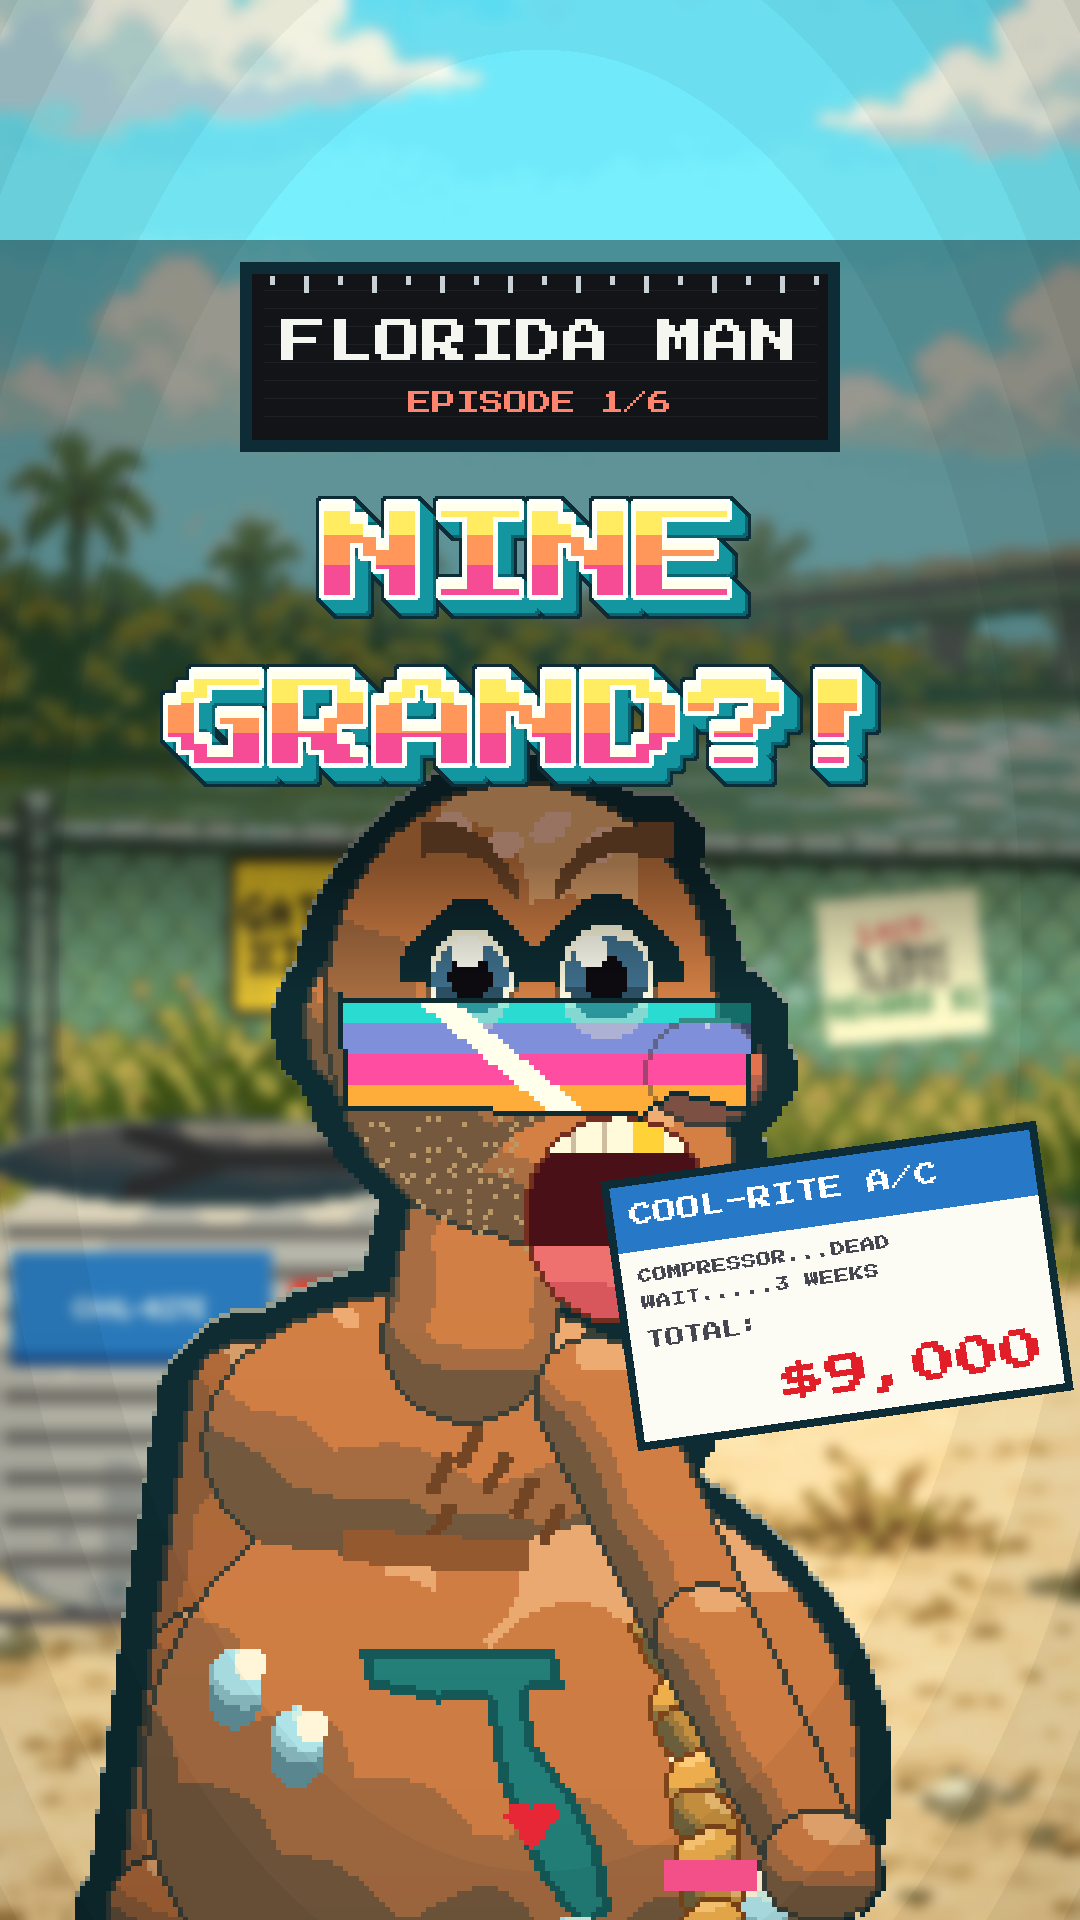
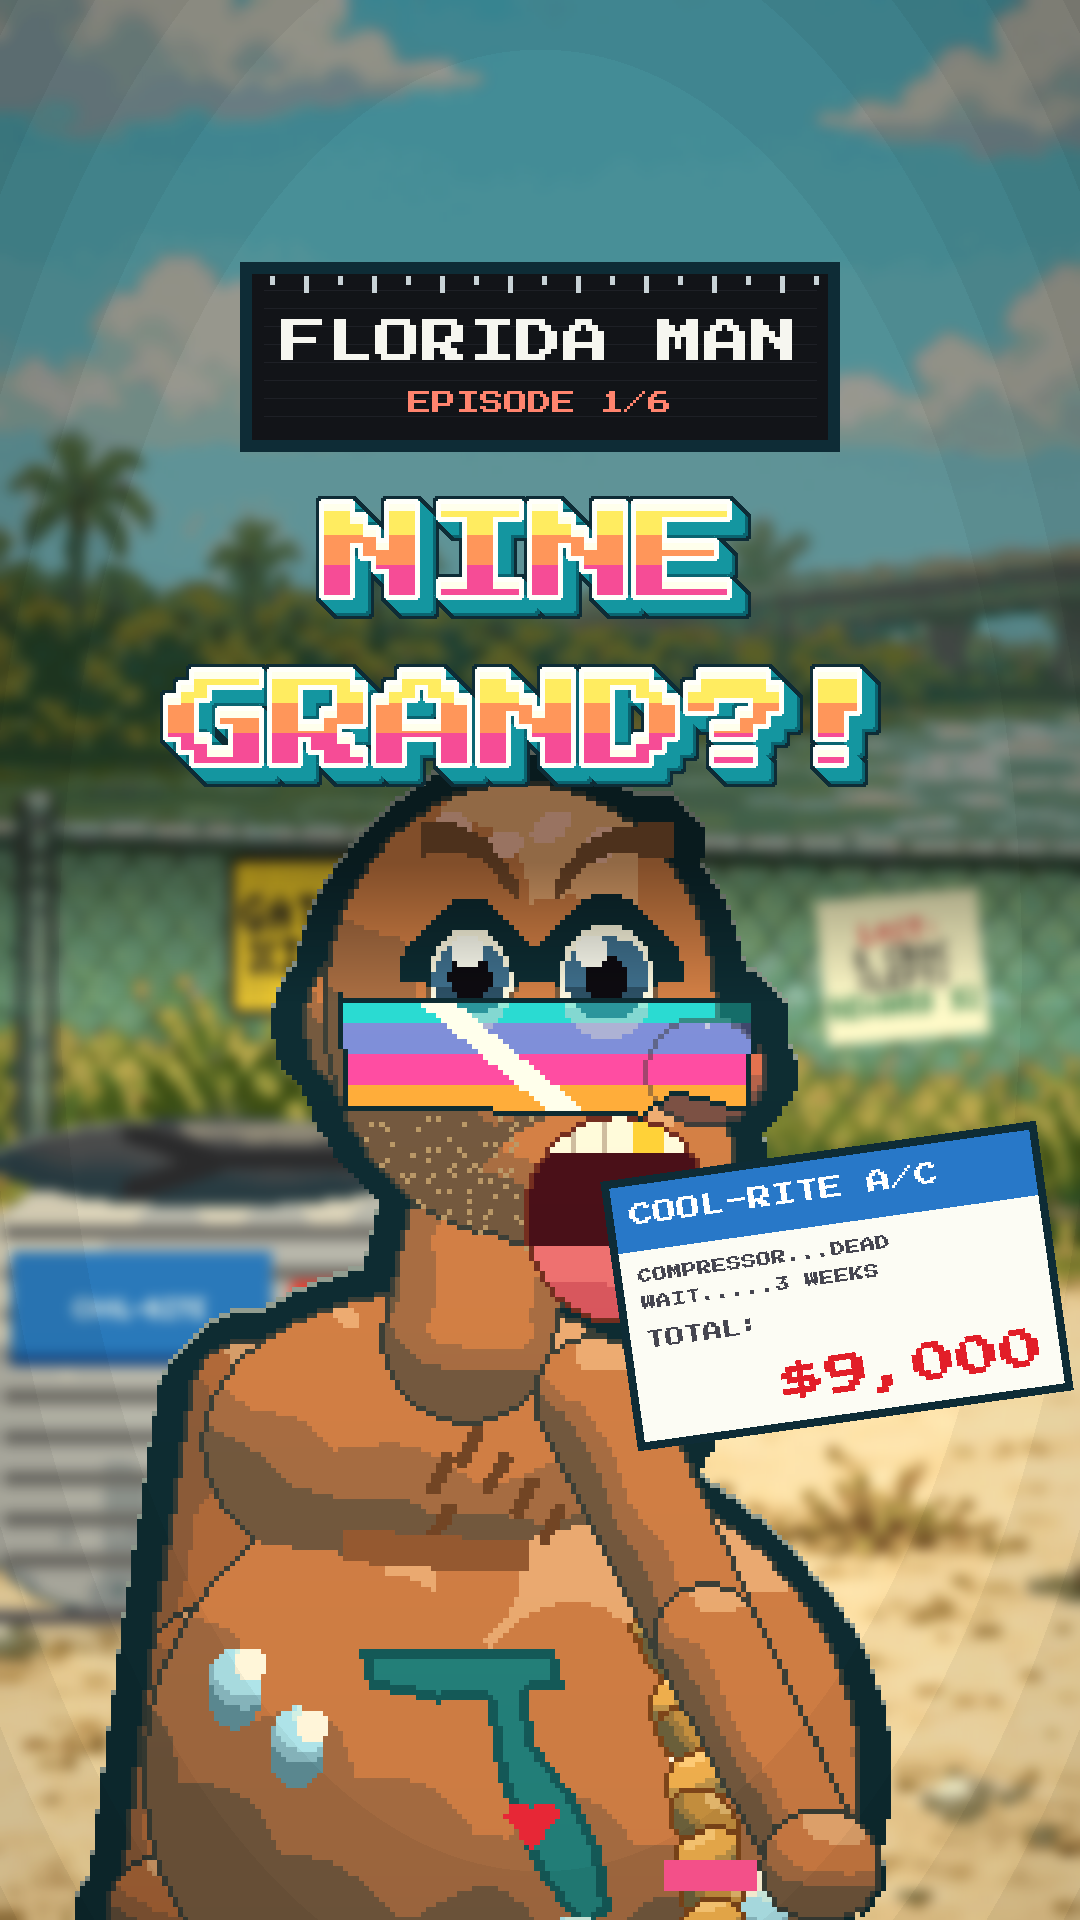
E01: правки по критику (билборд целиком, дверь морозилки, Таннер в морозилке, кресло на крупном плане, ростомер), отчёт critic.md
Claude-Session: https://claude.ai/code/session_01FGEzZ1Ap6hv5akAT8HD42w

Changed region(s): [[0.0, 0.0, 1.0, 0.125]]

diff --git a/series/florida-man/episodes/ep01/ep01.py b/series/florida-man/episodes/ep01/ep01.py
@@ -84,14 +84,14 @@ def r_hook(t, u):
 def r_tanner_ac(t, u):
     """MS: Tanner (job #1, Cool-Rite) beside the smoking condenser, tablet up, beaming — and sweating himself (clue)"""
     Z = 1.45
-    v = view_at(YARD, 560.0, 470.0, Z, 180, 320)
+    v = view_at(YARD, 578.0, 470.0, Z, 180, 320)               # the trailer's corner stays out of the left edge
     acts = [ac_actor(v, t),
             A(C.tanner, 618.0, SAND, S_YARD * Z, t=t, expr='chipper', mouth_=mouth('tanner', t, 2.0), look=(0.0, 0.0), jobs=1, sweat=1.0,
               prop_n=lambda sp, h: C.tablet(sp, (h[0] + 0.5, h[1] - 0.5)), hand_n=(10.0, 40.0), shadow=0.35)]
     def f(big, v_):
         ac_smoke(big, v_, t)
         K.heat_haze(big, t, 1150, OUT_H, 3)
-    return K.shot(YARD, K.light_sun, 560.0, 470.0, Z, acts=acts, fx_=f, sx=180, sy=320)
+    return K.shot(YARD, K.light_sun, 578.0, 470.0, Z, acts=acts, fx_=f, sx=180, sy=320)
 
 
 def r_melt(t, u):
@@ -109,15 +109,14 @@ def r_tanner_cu(t, u):
     def pre(big, v):
         ac_actor(v, t)(big, v, K.light_sun(v)); ac_smoke(big, v, t, 0.8)
     big, a = cu(YARD, K.light_sun, C.tanner, t, 560.0, 460.0, 23.0, (540, 700), Z=1.35, blur=6, pre_=pre, expr='chipper',
-                mouth_=mouth('tanner', t, 2.0), look=(0.0, 0.0), jobs=1, sweat=1.0, thumbs=u > 0.35, hand_n=(11.0, 50.0) if u > 0.35 else None,
-                prop_f=lambda sp, h: C.tablet(sp, (h[0] - 4.0, h[1])))
+                mouth_=mouth('tanner', t, 2.0), look=(0.0, 0.0), jobs=1, sweat=1.0, thumbs=u > 0.35, hand_n=(11.0, 50.0) if u > 0.35 else None)
     return big
 
 
 def r_porch(t, u):
     """MS: zen again — Florida Man holds the sub up to Mort perched on the lawn-chair back; the billboard behind; GULP at 12.95"""
-    Z = 1.4
-    v = view_at(YARD, 770.0, 420.0, Z, 180, 320)
+    Z = 1.1                                                      # wide enough for Mort's whole billboard (802..1008) behind them
+    v = view_at(YARD, 852.0, 420.0, Z, 180, 320)
     gone = t >= 12.95
     gul = min(1.0, max(0.0, (t - 12.95) / 0.3))
     fm_ = A(C.fm, 742.0, SAND, S_YARD * Z, t=t, expr='zen', mouth_=mouth('fm', t), look=(0.8, 0.5),
@@ -126,7 +125,7 @@ def r_porch(t, u):
              look=(1.0, -0.4), lump='sub' if gone else None, gulp=gul if gone else 0.0, lift=0.5 * (1 - gul) if t > 12.5 else 0.0)
     def f(big, v_):
         K.heat_haze(big, t, 1300, OUT_H, 3)
-    return K.shot(YARD, K.light_sun, 770.0, 420.0, Z, acts=[mort, fm_], fx_=f, sx=180, sy=320)
+    return K.shot(YARD, K.light_sun, 852.0, 420.0, Z, acts=[mort, fm_], fx_=f, sx=180, sy=320)
 
 
 def r_mort_cu(t, u):
@@ -155,18 +154,33 @@ def r_doors(t, u):
 
 
 def freezer_door(big, v, x0, x1, y0, y1, ang, frost=0.6):
-    """an opened glass freezer door hinged at x1 (world), swung towards the viewer: a narrowing frosty glass panel + chrome frame"""
+    """an opened glass freezer door hinged at x1 (world), swung towards the viewer: chrome frame with hinge plates, frosted glass
+    (frost thicker at the bottom, a diagonal glare), a long vertical handle on the free edge; its bottom sits on the case's base"""
     ax0, ay0 = v.opt(x0, y0); ax1, ay1 = v.opt(x1, y1)
     w = (ax1 - ax0) * math.cos(ang)
     X0 = int(ax1 - w); X1 = int(ax1)
     Y0, Y1 = int(ay0), int(ay1)
-    if X1 - X0 < 4: return
-    reg = big[max(0, Y0 - 20):min(OUT_H, Y1 + 20), max(0, X0):min(OUT_W, X1)]
-    reg[:] = (reg * 0.45 + np.array((220, 240, 255)) * 0.55).astype(np.uint8)
-    big[max(0, Y0 - 20):min(OUT_H, Y1 + 20), max(0, X0):max(0, X0) + 14] = (200, 210, 220)
-    big[max(0, Y0 - 20):min(OUT_H, Y1 + 20), max(0, X1 - 14):X1] = (200, 210, 220)
-    big[max(0, Y0 - 20):max(0, Y0 - 6), max(0, X0):X1] = (200, 210, 220)
-    big[min(OUT_H - 1, Y1 + 6):min(OUT_H, Y1 + 20), max(0, X0):X1] = (200, 210, 220)
+    if X1 - X0 < 6: return
+    fr = max(6, int(v.Z * 3 * 3.5))                               # frame thickness
+    ya, yb = max(0, Y0 - fr), min(OUT_H, Y1 + fr)
+    xa, xb = max(0, X0), min(OUT_W, X1)
+    if xa >= xb or ya >= yb: return
+    reg = big[ya:yb, xa:xb].astype(np.float32)
+    g = np.linspace(0.45, 0.75, yb - ya)[:, None, None]             # frost builds up towards the bottom
+    reg = reg * (1 - g) + np.array((222, 240, 255), np.float32) * g
+    xx = np.arange(xa, xb)[None, :]; yy = np.arange(ya, yb)[:, None]
+    glare = (np.abs((xx - xa) - (yy - ya) * 0.35 - (xb - xa) * 0.3) < max(4, (xb - xa) * 0.08))
+    reg[glare] = reg[glare] * 0.5 + 255 * 0.5
+    big[ya:yb, xa:xb] = reg.astype(np.uint8)
+    CH, CD = (206, 214, 224), (120, 128, 140)
+    big[ya:yb, xa:min(xb, xa + fr)] = CH; big[ya:yb, max(xa, xb - fr):xb] = CH
+    big[ya:min(yb, ya + fr), xa:xb] = CH; big[max(ya, yb - fr):yb, xa:xb] = CH
+    big[ya:yb, max(xa, xb - 2):xb] = CD; big[max(ya, yb - 2):yb, xa:xb] = CD
+    for hy in (ya + (yb - ya) // 6, yb - (yb - ya) // 6):           # hinge plates on the hinge side
+        big[max(0, hy - fr):hy + fr, max(xa, xb - fr - 6):xb] = CD
+    hx = xa + fr + max(4, fr // 2)                                  # the handle on the free edge
+    big[ya + (yb - ya) // 4:yb - (yb - ya) // 4, hx:hx + max(6, fr // 2)] = (150, 158, 170)
+    big[ya + (yb - ya) // 4:yb - (yb - ya) // 4, hx:hx + 3] = (236, 240, 246)
 
 
 def cold_mist(big, v, x, y, t, n=6):
@@ -226,7 +240,9 @@ def freezer_insert(t, u, sc, head, expr, open_k=1.0, shiver=1.0, zoom=1.0):
     sp = FX.draw(C.tanner, sc, t=t, expr=expr, mouth_=mouth('tanner', t, 2.0), look=(0.0, 0.0), jobs=1, frost=1.0, shiver=shiver,
                  hand_n=(9.0, 46.0), hand_f=(-4.0, 46.0))
     px, py = sp.anchors['head']
-    blit(big, sp, head[0] - px * sc, head[1] + py * sc, sc, K.light_aisle(v2))
+    tmp = big.copy()
+    blit(tmp, sp, head[0] - px * sc, head[1] + py * sc, sc, K.light_aisle(v2))
+    big[y0:y1, x0:x1] = tmp[y0:y1, x0:x1]                      # he is INSIDE the freezer: clipped to its interior
     big[y1 - 40:y1 + 30, x0 - 30:x1 + 30] = (190, 200, 214)    # front lip hides his legs
     big[y1 + 30:] = (big[y1 + 30:] * 0.6).astype(np.uint8)
     if open_k < 1.0:                                           # the glass door still swinging open
@@ -273,9 +289,13 @@ def r_reveal(t, u):
     def pre(big, v_):
         freezer_door(big, v_, 502.0, 640.0, 230.0, 500.0, 1.15)
         freezer_door(big, v_, *DOOR_X, 230.0, 500.0, 1.25)
-        x, y = v_.opt(708.0, 470.0)                              # Tanner huddled in his freezer
-        sp = FX.draw(C.tanner, s_ * 0.9, t=t, expr='shiver', jobs=1, frost=1.0, shiver=1.0)
-        blit(big, sp, x, y, s_ * 0.9, K.light_aisle(v_))
+        x, y = v_.opt(712.0, 466.0)                              # Tanner huddled in his freezer, fits the case cell, behind its glass
+        sp = FX.draw(C.tanner, s_ * 0.7, t=t, expr='shiver', jobs=1, frost=1.0, shiver=1.0)
+        blit(big, sp, x, y, s_ * 0.7, K.light_aisle(v_))
+        gx0, gy0 = v_.opt(650.0, 226.0); gx1, gy1 = v_.opt(776.0, 470.0)
+        gx0, gy0, gx1, gy1 = max(0, int(gx0)), max(0, int(gy0)), min(OUT_W, int(gx1)), min(OUT_H, int(gy1))
+        if gx0 < gx1 and gy0 < gy1:
+            big[gy0:gy1, gx0:gx1] = (big[gy0:gy1, gx0:gx1] * 0.72 + np.array((214, 236, 255)) * 0.28).astype(np.uint8)
     def f(big, v_):
         cold_mist(big, v_, 560.0, 440.0, t)
     return K.shot(AISLE, K.light_aisle, CX, CY, Z, acts=acts, pre=pre, fx_=f, sx=180, sy=320)
@@ -305,12 +325,18 @@ def r_darlene_cu(t, u):
     return big
 
 
+def fm_recliner(sp, t=0.0, frost=0.0, **kw):
+    """Florida Man seated in his recliner, one sprite (close-ups: the chair stays under him)"""
+    C.recliner(sp, t=t, foot=1.0)
+    C.fm(sp, t=t, pose='sit', frost=frost, **kw)
+
+
 def r_browse(t, u):
     """CU: Florida Man frosted solid in the recliner, icicles on the braid, perfectly zen: «I'm BROWSING.»"""
     def pre(big, v):
         freezer_door(big, v, 502.0, 640.0, 230.0, 500.0, 1.15)
-    big, a = cu(AISLE, K.light_aisle, C.fm, t, 560.0, 420.0, 25.0, (520, 760), Z=1.4, blur=6, pre_=pre, expr='zen', mouth_=mouth('fm', t),
-                frost=1.0, look=(0.5, 0.0), pose='sit')
+    big, a = cu(AISLE, K.light_aisle, fm_recliner, t, 560.0, 420.0, 25.0, (520, 760), Z=1.4, blur=6, pre_=pre, expr='zen', mouth_=mouth('fm', t),
+                frost=1.0, look=(0.5, 0.0), hand_n=(14.0, 32.0), hand_f=(-8.0, 36.0))
     K.frost_edges(big, 0.7)
     return big
 

diff --git a/engine/props/fmkit.py b/engine/props/fmkit.py
@@ -289,12 +289,12 @@ def mug_wall():
     if _MUG is None:
         im = Image.new('RGB', (OUT_W, OUT_H), (176, 196, 204)); d = ImageDraw.Draw(im); d.fontmode = '1'
         for y in range(0, OUT_H, 8): d.line([(0, y), (OUT_W, y)], fill=(170, 190, 198))
-        labels = {0: "7'", 2: "6'6", 4: "6'", 6: "5'6", 8: "5'", 10: "4'6", 12: "4'"}
+        labels = {2: "6'6", 4: "6'", 6: "5'6", 8: "5'", 10: "4'6"}        # no 7' (under the episode plate), no 4' (under the stamp)
         for i in range(0, 14):
             y = 160 + i * 110
             d.rectangle([0, y, OUT_W, y + 8], fill=(40, 60, 70))
             if i in labels:
-                d.text((30, y - 46), labels[i], font=O.pfont(34), fill=(40, 60, 70)); d.text((OUT_W - 150, y - 46), labels[i], font=O.pfont(34), fill=(40, 60, 70))
+                d.text((30, y - 46), labels[i], font=O.pfont(34), fill=(40, 60, 70)); d.text((OUT_W - 128, y - 46), labels[i], font=O.pfont(34), fill=(40, 60, 70))
             else:
                 d.rectangle([0, y - 55, 60, y - 51], fill=(80, 100, 110)); d.rectangle([OUT_W - 60, y - 55, OUT_W, y - 51], fill=(80, 100, 110))
         _MUG = np.array(im)

diff --git a/series/florida-man/episodes/ep01/critic.md b/series/florida-man/episodes/ep01/critic.md
@@ -1,0 +1,29 @@
+# Visual critic: Florida Man: Allegedly, S01E01 (33 s, 1080x1920)
+
+Checked all 40 full-size frames f_00.25 … f_32.00, cover.png and cover_grid.png.
+
+1. cover.png: hard horizontal seam across the full width at y = 240. Above it the sky is RGB(120,239,252); below it a dimming layer drops it to RGB(72,143,151). It reads as a two-tone split on the 9:16 cover and in the 0.1 s cover flash. Location: (0–1080, 240). **FIX**
+2. cover.png: the tilted $9,000 card covers the right half of the screaming mouth, which hides part of the hook emotion. The grid thumbnail still reads well. Location: (600–700, 1150–1320). **NIT**
+3. 0.25–1.75 / f_00.25, f_01.32, f_01.75: inside the slid-down glasses band, faint lens rings repeat the eyes, and a third ring sits on the nose. This looks like a doubled or leftover overlay. Location: rings (430–520, 790–860) and (590–680, 790–860); nose ring (660–770, 830–910). **NIT**
+4. 0.25 / f_00.25: the caption "NINE GRAND?!" duplicates the hook title "NINE GRAND?!" on screen at the same moment. Location: (190–890, 1730–1800) vs (20–1030, 190–290). **NIT**
+5. 3.25–6.25 / f_03.25, f_03.82, f_04.75: the foreground pole at the left edge ends in a flat, hard cut in mid-air above the bushes. It doesn't reach the ground. Location: (0–25, 0–975), cut at y ≈ 975. **FIX**
+6. 3.25–4.75 / f_03.25, f_03.82, f_04.75: the "LOST 1 CROC / REWARD" poster is cut by the right frame edge and can't be read here (it reads fully at 10.75). Location: (1010–1080, 810–960). **NIT**
+7. 7.75–9.25 / f_07.75, f_08.96, f_09.25: Tanner's tablet floats at his left side with no hand or arm holding it. At 3.25 he held it in his right hand. Location: (200–370, 1240–1440). **FIX**
+8. 3.25–9.25 and 18.25–21.25 / Tanner frames: his brows are replaced by pale-blue sweat beads, and at 7.75 a row of four beads looks like a tiara. The open mouth at 8.96, 9.25 and 19.75–21.25 is a flat white oval with only a grey tooth row (no dark interior or tongue). The thumbs-up at 8.96 is a square block. Location: brows (420–640, 610–660); mouth (525–690, 775–890) at 8.96, (525–705, 990–1130) at 19.75; hand (740–820, 970–1055). **NIT**
+9. 6.25–6.38 / f_06.25, f_06.38: a blurred house-number plaque on the trailer sticks out to the right of the episode plate, so the plate looks doubled. The trailer background also has a wavy, melted window mullion and right wall edge (an xAI wobble, softened by the blur). Location: plaque (545–600, 95–150); mullion x ≈ 130, wall edge x ≈ 800. **NIT**
+10. 10.75–12.25 / f_10.75, f_11.71, f_12.25: the right frame edge cuts Mort's billboard copy ("H…", "GAT…", "1-…"). This billboard introduces Mort, and its joke can't be read. The "DO NO… THE (THE… A LA…" sign on the right is also cut. Location: billboard text (1000–1080, 150–440); sign (955–1080, 985–1165). **FIX** (billboard), NIT (sign)
+11. 10.75–12.25 / f_10.75, f_11.71, f_12.25: a white-and-teal striped cylinder between Florida Man and the sub is unreadable as an object. Florida Man is shirtless and his arms are brown elsewhere. Location: (520–710, 1090–1180). **NIT**
+12. 15.25 / f_15.25: the store-door sign "OPE… EXC… (TO…" is cut by the right edge, so its joke is lost. Location: (1005–1080, 700–830). **NIT**
+13. 16.75–24.25 / f_16.75, f_16.98, f_22.18, f_22.75, f_23.56, f_24.25: the "open freezer door" is a flat, translucent pale rectangle with hard edges and no hinge or handle. Its bottom edge stops in mid-air below the cabinet (at 22.18 it runs onto the floor). It reads as a stray overlay, not a door. Location: (640–890, 0–1105) at 16.75; (570–745, 355–1245) at 22.18; (515–755, 0–1100) at 22.75–24.25. **FIX**
+14. 18.25–21.25 / f_18.25, f_18.79, f_19.75, f_20.71, f_21.25: Tanner's legs aren't clipped to the freezer insert. They continue under the panel's bottom frame and show ghosted through the frost border. At 19.75–21.25 his iced left arm also breaks past the panel's left edge. Location: legs (380–620, 1730–1920); arm (40–110, 1150–1520). **FIX** (legs), NIT (arm)
+15. 22.18 / f_22.18: Tanner standing inside the freezer is wrong in scale and placement. He is taller than the cooler door (his head is above the top frame), his feet sit on the cabinet's bottom ledge, and he is drawn in front of the glass with no glass over him. He reads as a giant hovering in front of the cooler. Location: (880–1070, 290–1130). **FIX**
+16. 27.25–28.75 / f_27.25, f_27.42, f_28.75: in the close-up the recliner is gone. Florida Man's seated body ends in a flat horizontal edge with icicles, and the extended leg floats with no footrest under it. This breaks continuity with 22.75–24.25. Location: body base (180–760, ≈1745); leg (740–1030, 1620–1730). **FIX**
+17. 29.33 / f_29.33: the mugshot height mark "7'" peeks out to the left of the episode plate, so it reads "7SEASON 1". Location: (30–55, 110–145). **FIX**
+18. 29.33 / f_29.33: the "(ALLEGEDLY)" stamp overlaps the "4'" height label, which shows through "…LY". The "4'6" label on the right is half under the placard's right edge. Location: (930–985, 1430–1465); (935–1030, 1210–1245). **FIX**
+19. 30.12–30.25 / f_30.12, f_30.25: lying on the bunk, Florida Man's head and legs hover about 30–40 px above the mattress (his belly touches it), and his croc is cut by the right edge. Location: head (40–270, 950–1200) vs mattress top y ≈ 1240; croc (1030–1080, 980–1120). **NIT**
+20. 30.70 / f_30.70: to the left of the BREAKING tab, a red glyph fragment from a paper sign cut at the left edge behind the chyron reads as a stray mark. Location: (0–25, 1500–1550). **NIT**
+21. Ambience: locations read at once. The yard has the canal, fence, GATOR XING sign, LOST CROC poster, billboard, flamingo and gnats. The storefront has "NO SHIRT, NO SHOES STILL SERVICE (IT'S FLORIDA)". The freezer aisle has "PLEASE DO NOT LIVE HERE", "ICE CREAM", frost and the iguana. The jail has the height board, punch card, bunk and "GREAT A/C" vent. One weak spot: the products in the freezer insert (18.25–21.25) are blank coloured boxes, with no labels or parody brands. Location: (120–960, 370–1430). **NIT**
+
+No pixel mush in any close-up: faces at 0.25, 13.75, 19.75, 25.24 and 27.25 have readable eyes, mouths and brows. Captions never cover faces. The cover_grid thumbnail reads well: plate, then title, then face, all inside the zone.
+
+VERDICT: FIX
